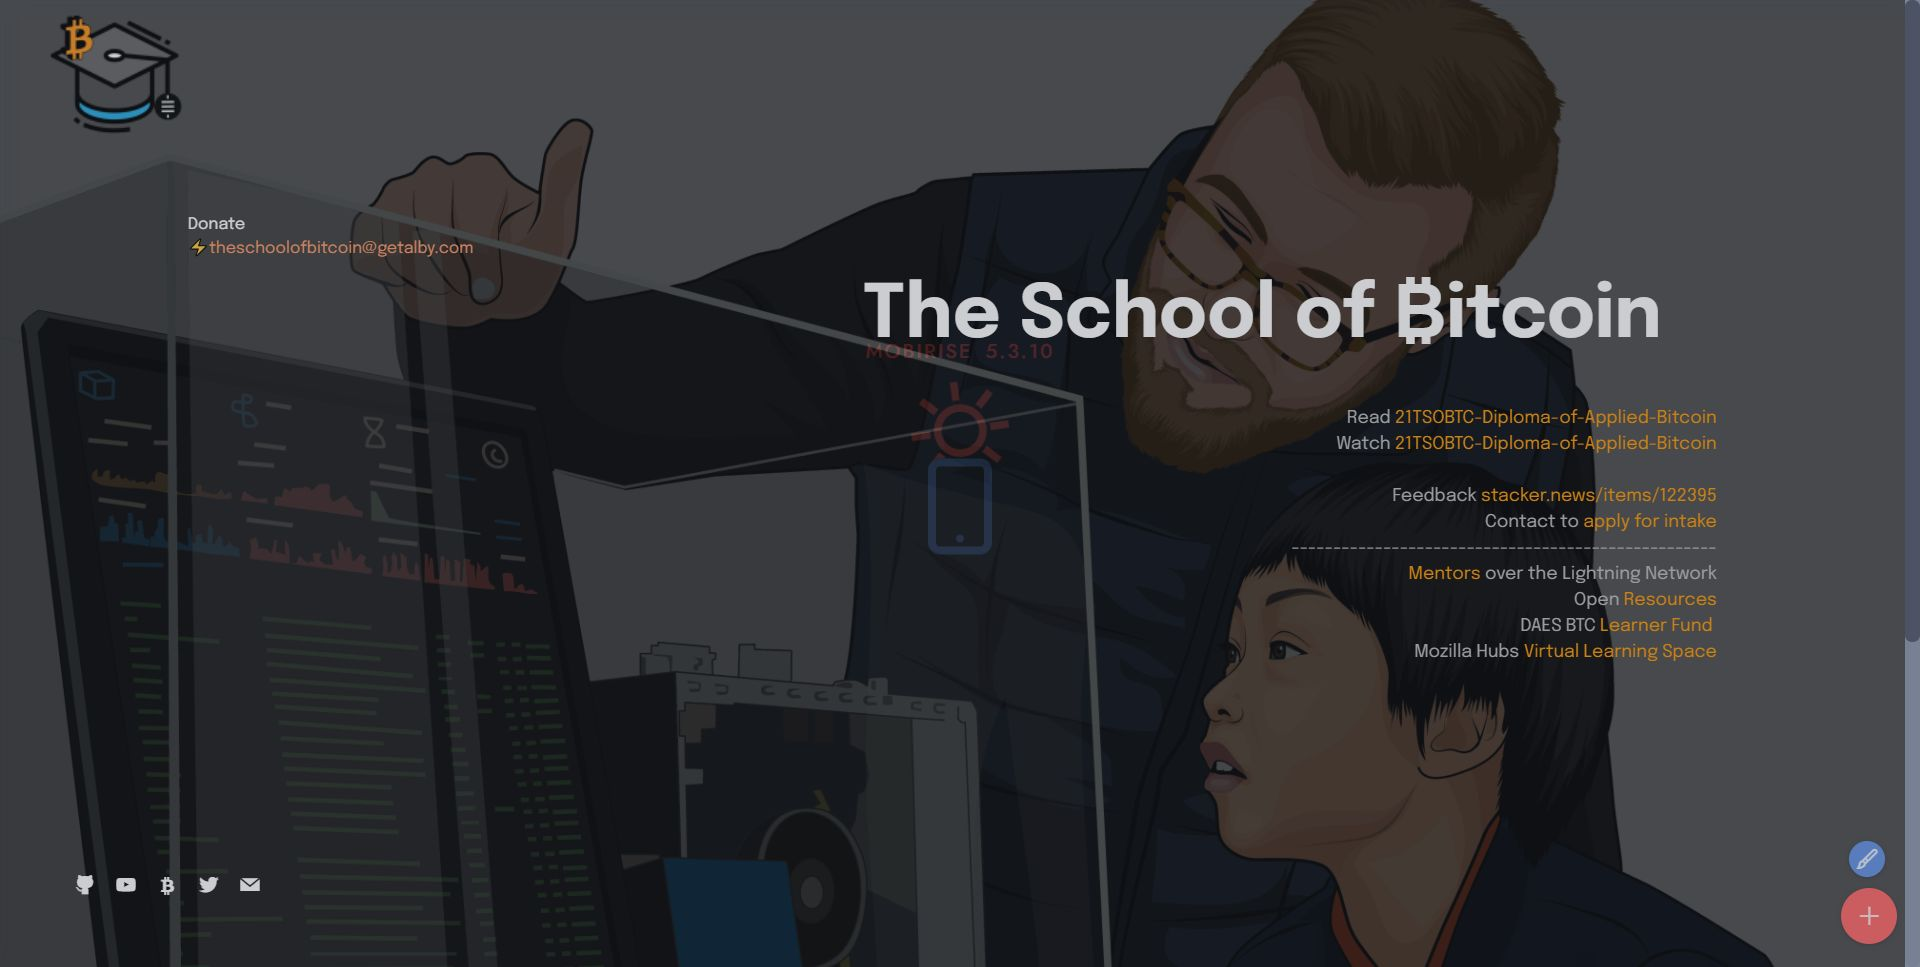
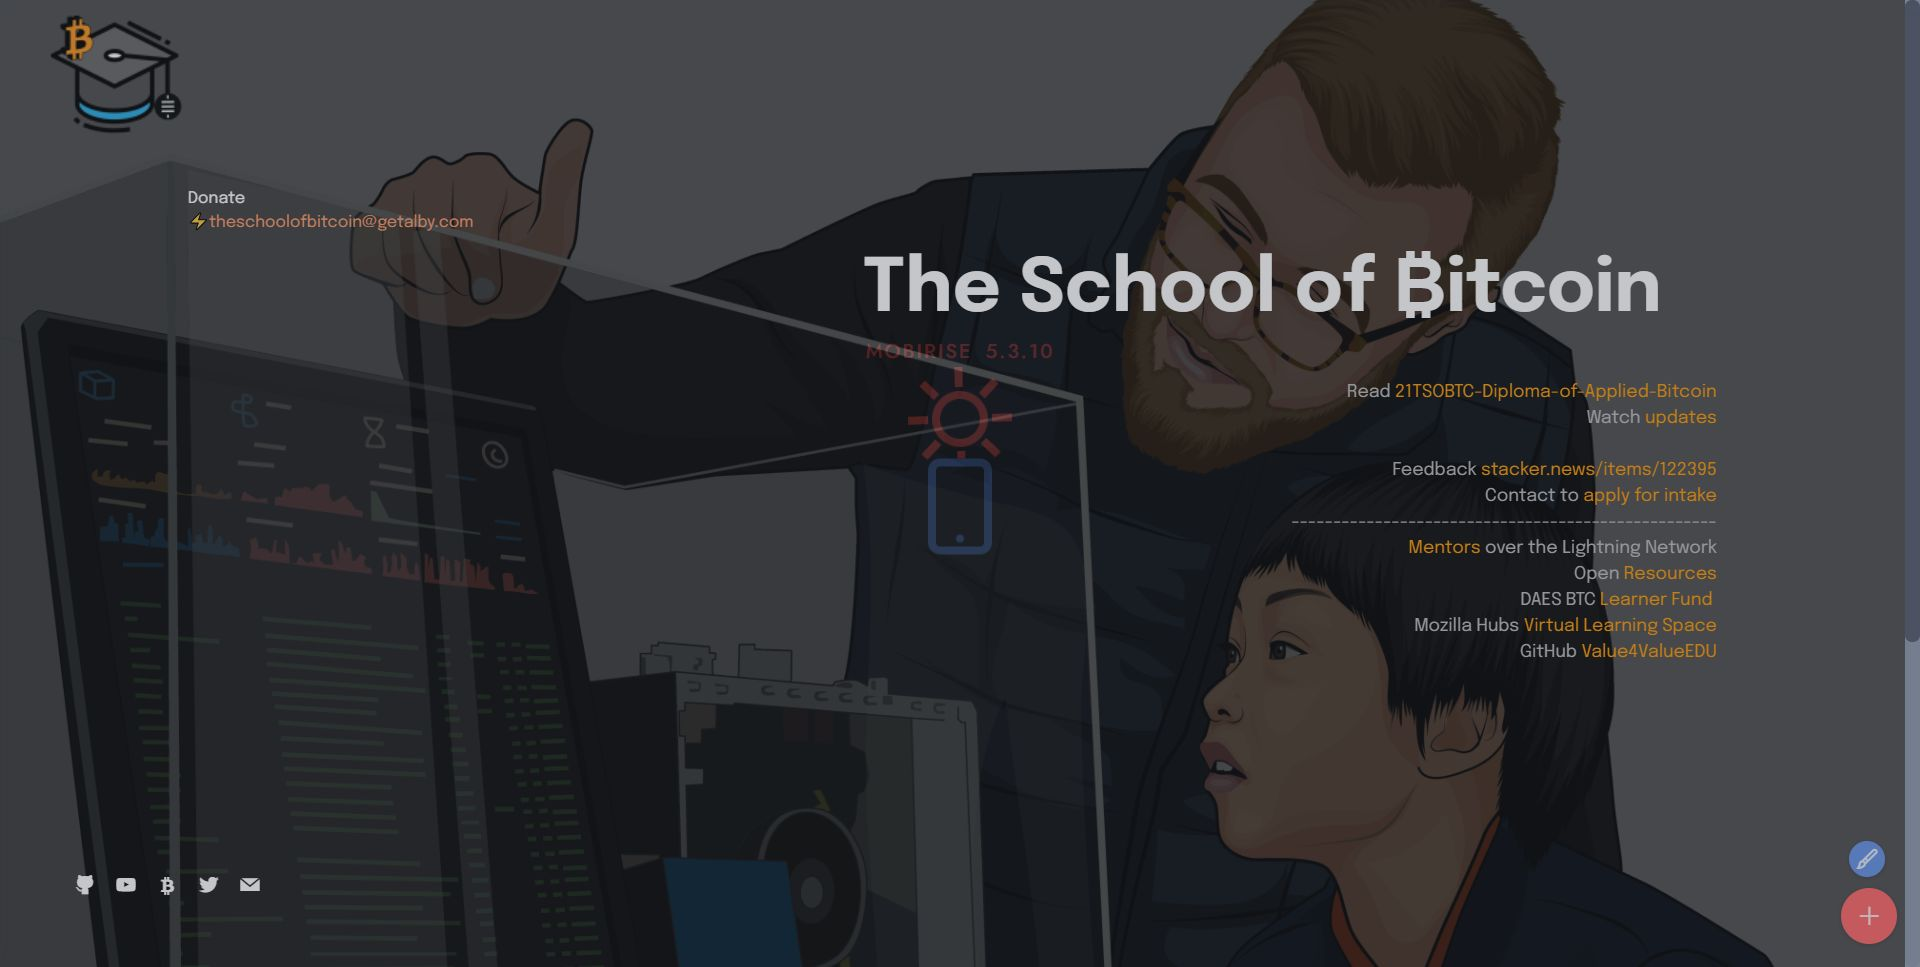
v4v
v4v

Changed region(s): [[0.4375, 0.2482, 0.9062, 0.6825], [0.0938, 0.1861, 0.25, 0.2792], [0.4688, 0.3723, 0.5312, 0.4964]]

diff --git a/index.html b/index.html
@@ -63,7 +63,7 @@
             <div class="col-12 col-md-12 col-lg-10">
                 <h2 class="mbr-section-subtitle align-left mbr-fonts-style mb-3 display-4">Donate&nbsp;<br><a href="https://getalby.com/p/theschoolofbitcoin" class="text-danger" target="_blank">⚡theschoolofbitcoin@getalby.com</a></h2>
                 <h1 class="mbr-section-title align-left mbr-fonts-style mb-5 display-1"><strong>The School of ₿itcoin&nbsp; &nbsp;</strong></h1>
-                <p class="mbr-text align-left mbr-fonts-style pb-5 display-7">Read&nbsp;<a href="https://github.com/TheSchoolofBitcoinCurriculum/21TSOBTC-Diploma-of-Applied-Bitcoin/blob/main/Course%20Outline" class="text-primary" target="_blank">21TSOBTC-Diploma-of-Applied-Bitcoin</a><br>Watch <a href="https://www.youtube.com/watch?v=B6Wj0Dp3ACM&list=PLD3n5hQtZwochgpYKFzW_blDx-e6lzwZK" class="text-primary" target="_blank">updates</a><a href="https://github.com/TheSchoolofBitcoinCurriculum/21TSOBTC-Diploma-of-Applied-Bitcoin/blob/main/Course%20Outline" class="text-primary" target="_blank"><br></a><br>Feedback&nbsp;<a href="https://stacker.news/items/122395" class="text-primary" target="_blank">stacker.news/items/122395</a><br>Contact to <a href="mailto:15s59m84y@mozmail.com" class="text-primary">apply for intake<br></a>---------------------------------------------------<br><a href="mentors.html" class="text-primary">Mentors</a>&nbsp;over the Lightning Network<br>Open&nbsp;<a href="https://resources.theschoolofbitcoin.com/" class="text-primary" target="_blank">Resources</a><br>DAES BTC<a href="https://explorer.stacks.co/txid/a3149eb897ddbba3d7135e3c180329cbda684720cd123d71cc25ea4fb27edc85?chain=mainnet" class="text-primary" target="_blank"> Learner&nbsp;Fund&nbsp;</a><br>Mozilla Hubs&nbsp;<a href="https://hubs.mozilla.com/CmZSgSr/theschoolofbitcoin/" class="text-primary" target="_blank">Virtual Learning Space</a><br><br></p>
+                <p class="mbr-text align-left mbr-fonts-style pb-5 display-7">Read&nbsp;<a href="https://github.com/TheSchoolofBitcoinCurriculum/21TSOBTC-Diploma-of-Applied-Bitcoin/blob/main/Course%20Outline" class="text-primary" target="_blank">21TSOBTC-Diploma-of-Applied-Bitcoin</a><br>Watch <a href="https://www.youtube.com/watch?v=B6Wj0Dp3ACM&list=PLD3n5hQtZwochgpYKFzW_blDx-e6lzwZK" class="text-primary" target="_blank">updates</a><a href="https://github.com/TheSchoolofBitcoinCurriculum/21TSOBTC-Diploma-of-Applied-Bitcoin/blob/main/Course%20Outline" class="text-primary" target="_blank"><br></a><br>Feedback&nbsp;<a href="https://stacker.news/items/122395" class="text-primary" target="_blank">stacker.news/items/122395</a><br>Contact to <a href="mailto:15s59m84y@mozmail.com" class="text-primary">apply for intake<br></a>---------------------------------------------------<br><a href="mentors.html" class="text-primary">Mentors</a>&nbsp;over the Lightning Network<br>Open&nbsp;<a href="https://resources.theschoolofbitcoin.com/" class="text-primary" target="_blank">Resources</a><br>DAES BTC<a href="https://explorer.stacks.co/txid/a3149eb897ddbba3d7135e3c180329cbda684720cd123d71cc25ea4fb27edc85?chain=mainnet" class="text-primary" target="_blank"> Learner&nbsp;Fund&nbsp;</a><br>Mozilla Hubs&nbsp;<a href="https://hubs.mozilla.com/CmZSgSr/theschoolofbitcoin/" class="text-primary" target="_blank">Virtual Learning Space</a><br>GitHub <a href="https://github.com/kdnolan/Value4ValueEDU" class="text-primary" target="_blank">Value4ValueEDU</a><a href="https://hubs.mozilla.com/CmZSgSr/theschoolofbitcoin/" class="text-primary" target="_blank"><br></a><br><br></p>
                 
             </div>
         </div>
